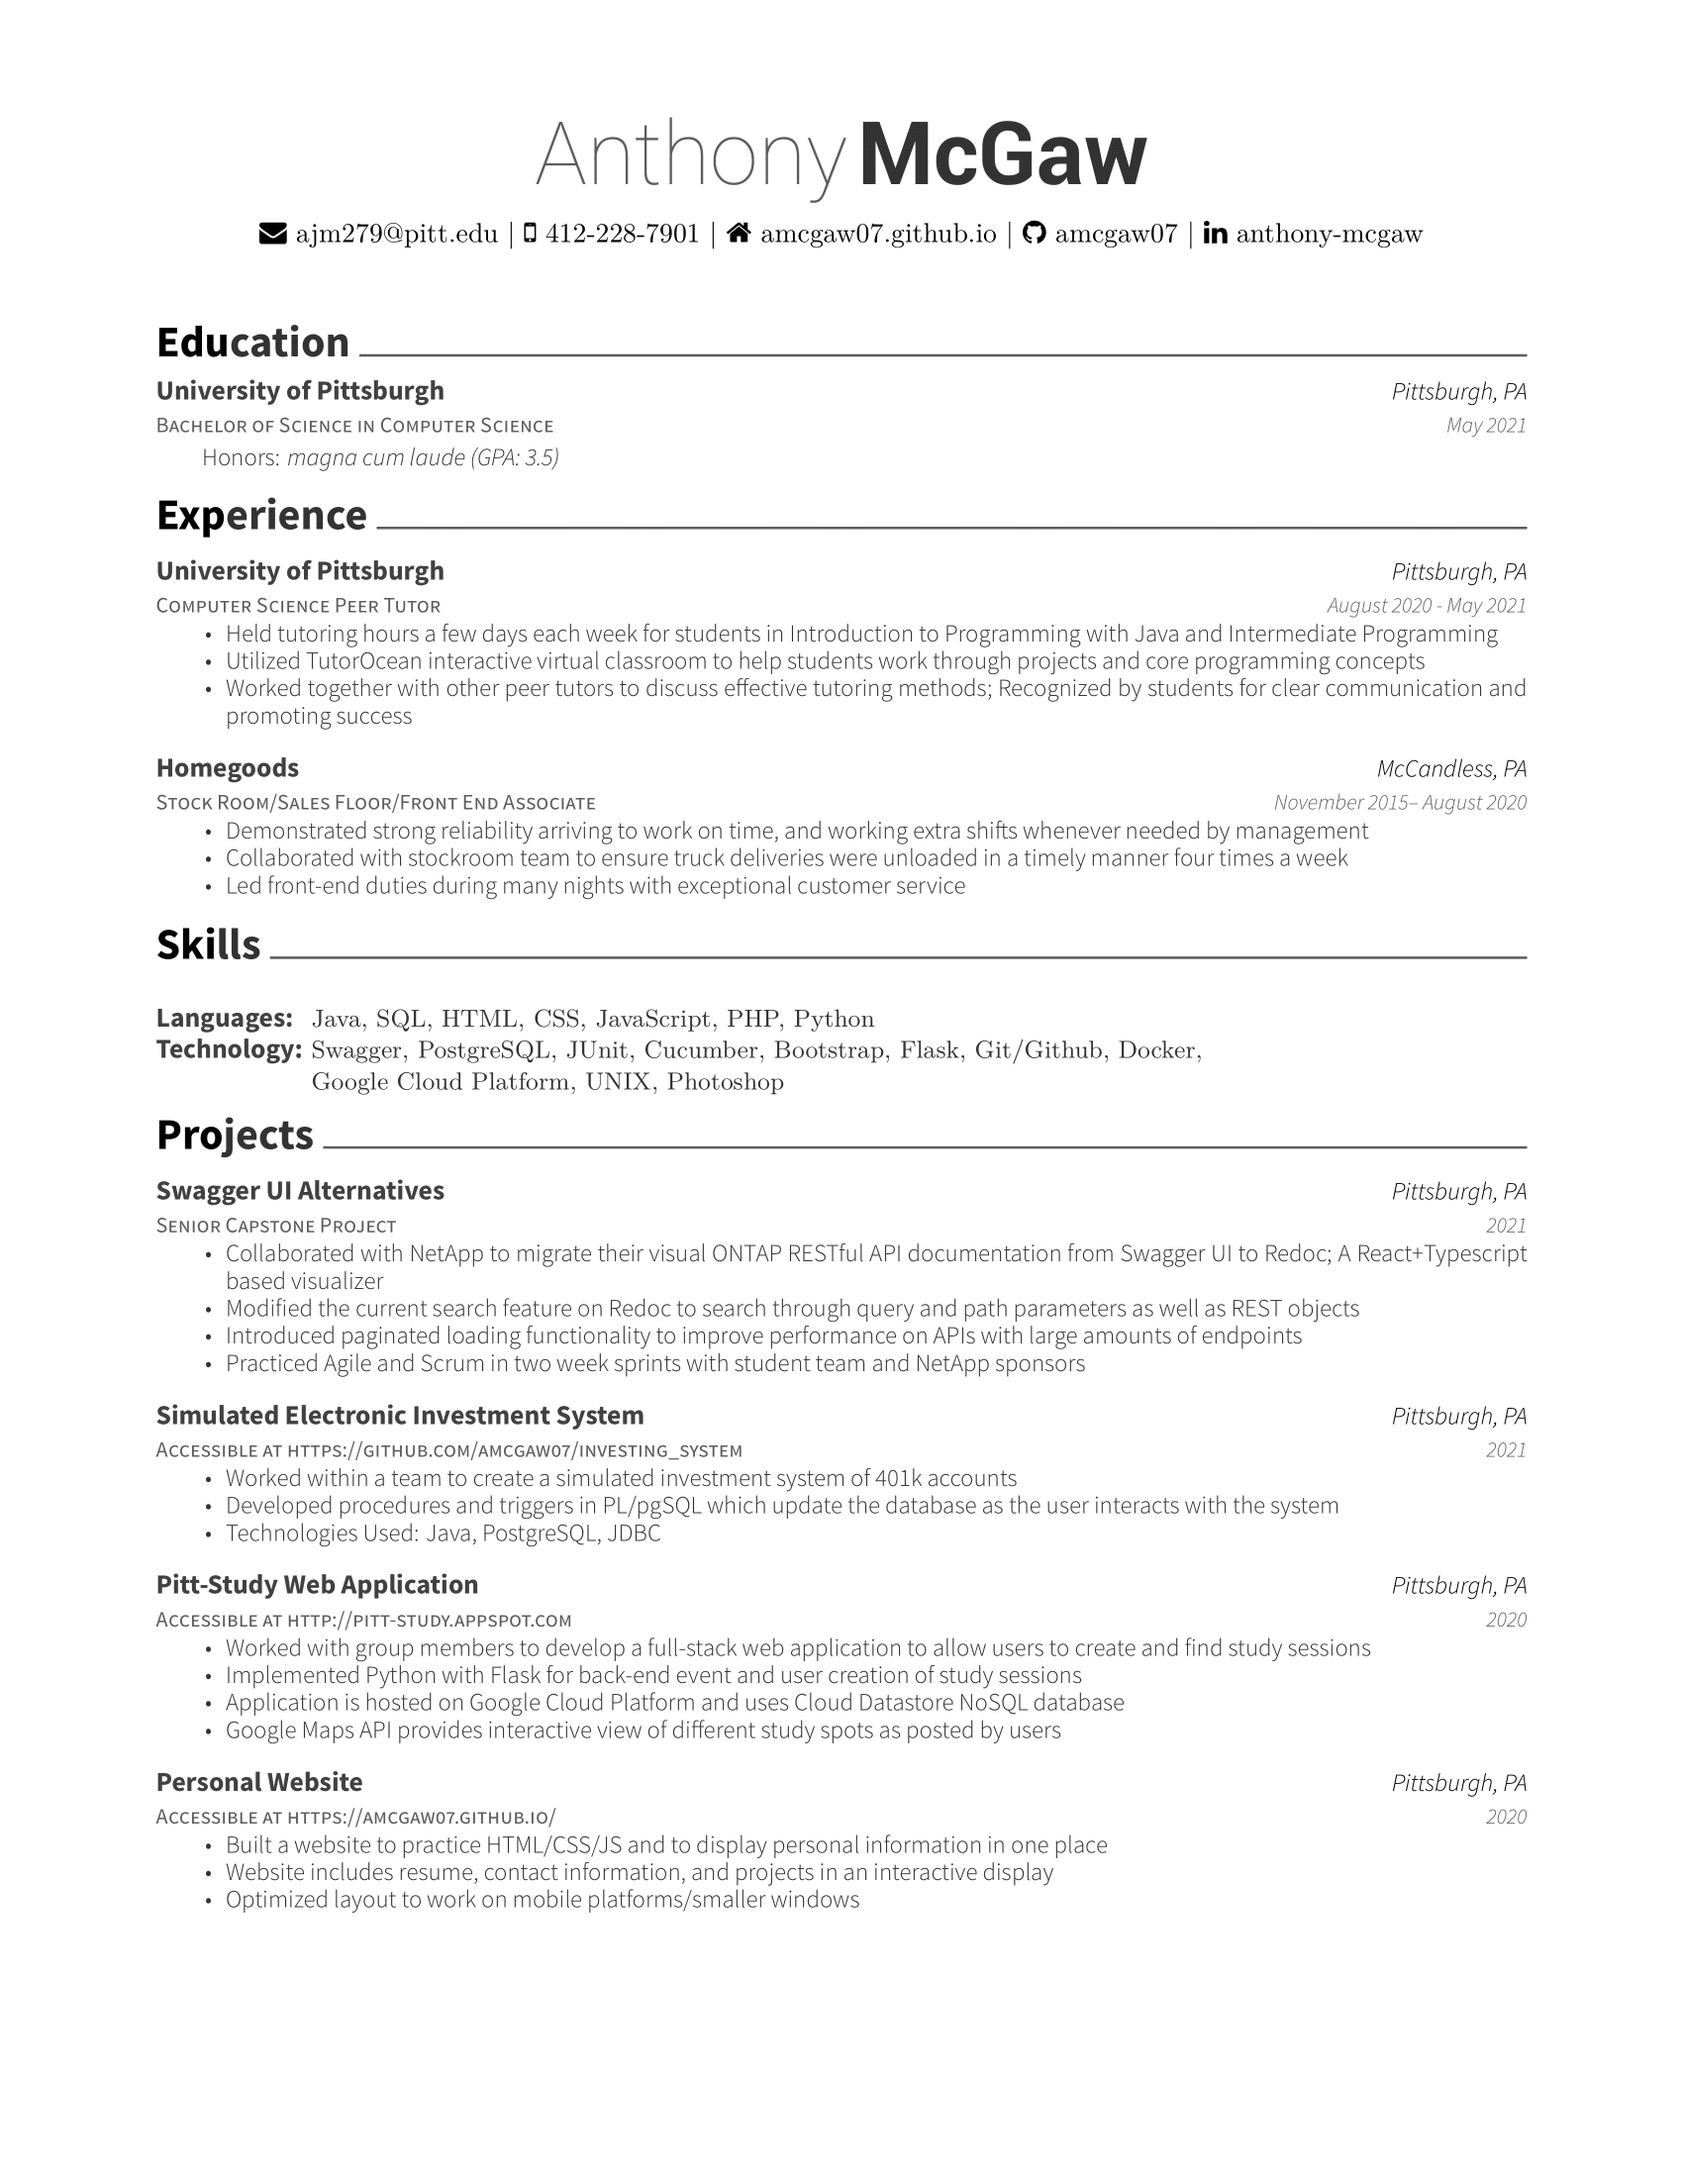
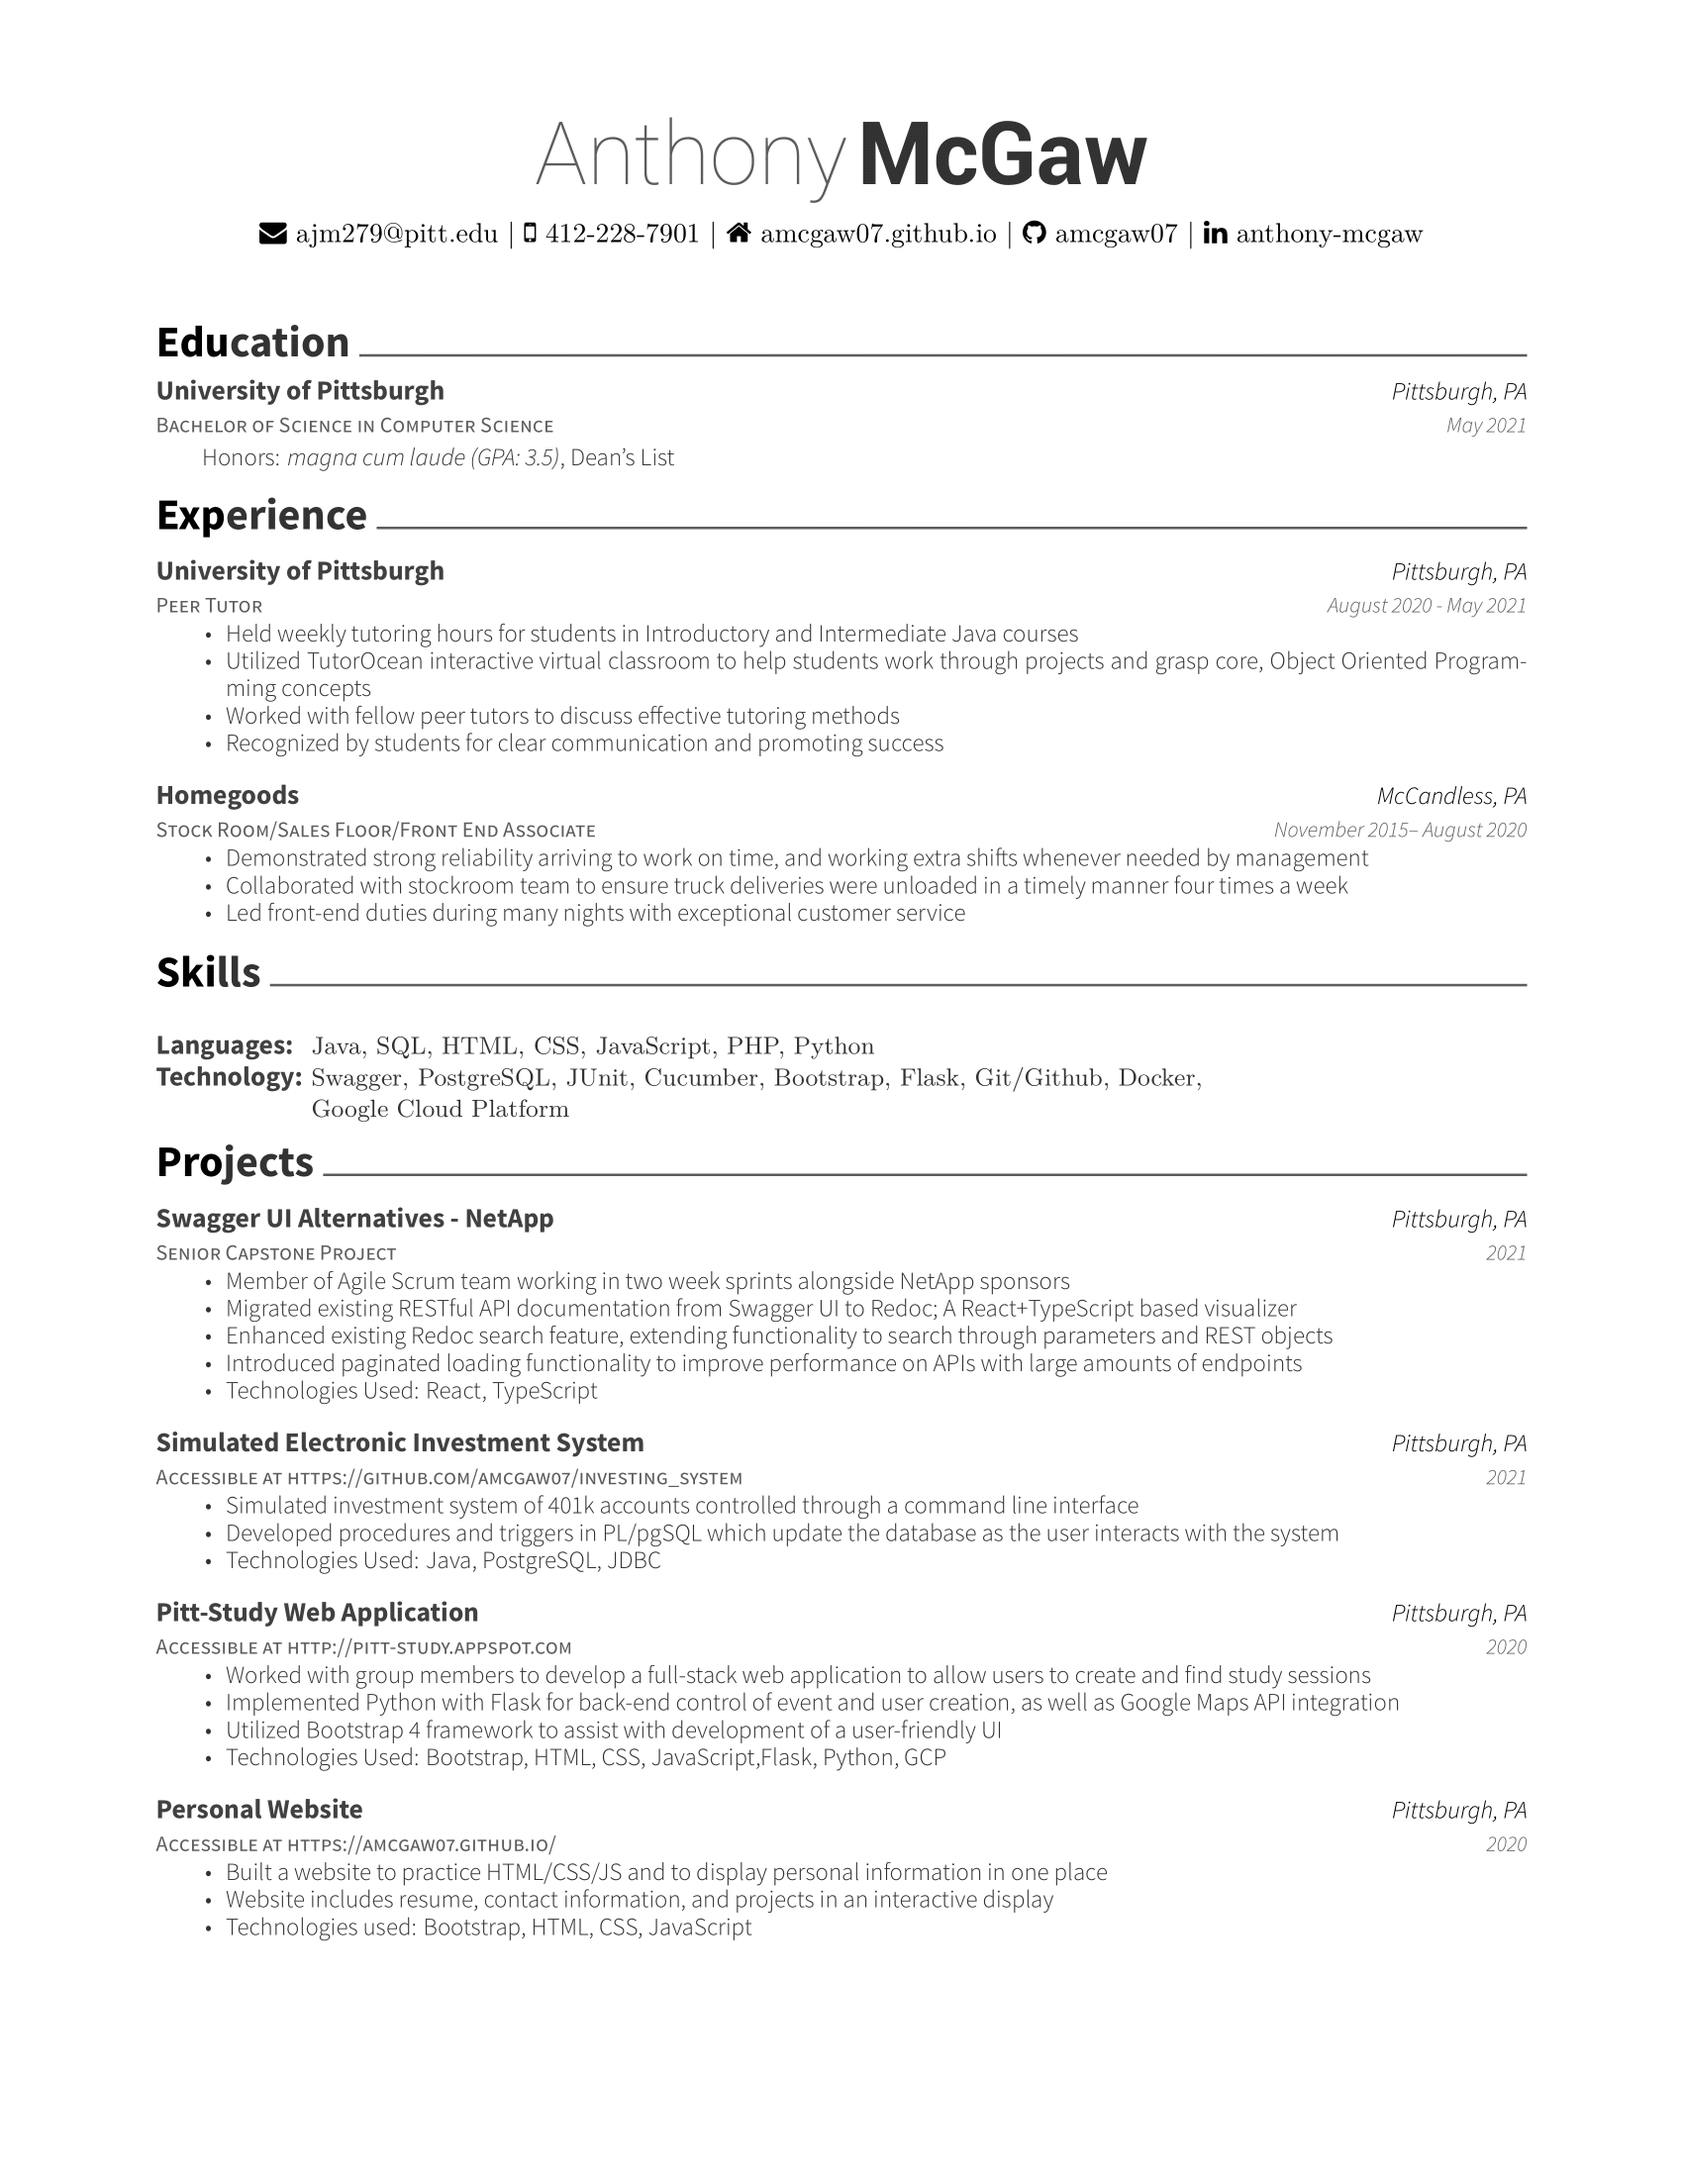
refactor

diff --git a/resume.tex b/resume.tex
@@ -62,7 +62,7 @@
 	{University of Pittsburgh}
 	{Pittsburgh, PA}
 	{May 2021}
-	{Honors: \textit{magna cum laude (GPA: 3.5)}}
+	{Honors: \textit{magna cum laude (GPA: 3.5)}, Dean's List}
 	
 	
 \end{cventries}
@@ -74,14 +74,15 @@
 \cvsection{Experience}
 \begin{cventries}
 	\cventry
-	{Computer Science Peer Tutor}
+	{Peer Tutor}
 	{University of Pittsburgh}
 	{Pittsburgh, PA}
 	{August 2020 - May 2021}
 	{\begin{cvitems}
-		\item {Held tutoring hours a few days each week for students in Introduction to Programming with Java and Intermediate Programming}
-		\item {Utilized TutorOcean interactive virtual classroom to help students work through projects and core programming concepts}
-		\item {Worked together with other peer tutors to discuss effective tutoring methods; Recognized by students for clear communication and promoting success}
+		\item {Held weekly tutoring hours for students in Introductory and Intermediate Java courses }
+		\item {Utilized TutorOcean interactive virtual classroom to help students work through projects and grasp core,  Object Oriented Programming concepts}
+		\item {Worked with fellow peer tutors to discuss effective tutoring methods}
+		\item {Recognized by students for clear communication and promoting success}
 		\end{cvitems}}
 	\cventry
 	{Stock Room/Sales Floor/Front End Associate}
@@ -101,7 +102,7 @@
 	{}
 	{\def\arraystretch{1.15}{\begin{tabular}{ l l }
 		Languages:  & {\skill{ Java, SQL, HTML, CSS, JavaScript, PHP, Python}} \\
-		Technology:  & {\skill{ Swagger, PostgreSQL, JUnit, Cucumber, Bootstrap, Flask, Git/Github, Docker, }} \\ &{\skill{ Google Cloud Platform, UNIX, Photoshop}} \\
+		Technology:  & {\skill{ Swagger, PostgreSQL, JUnit, Cucumber, Bootstrap, Flask, Git/Github, Docker, }} \\ &{\skill{ Google Cloud Platform}} \\
 		%Coursework:  & {\skill{ Intro to Data Science, Intro to Cloud Computing, Software Q/A, OS, Web Applications, }} \\
 		 		    %& {\skill{ Algorithms,  Data Structures,  Discrete Mathematics, Computer Organization}} \\
 		\end{tabular}}}
@@ -114,15 +115,16 @@
 \cvsection{Projects}
 \begin{cventries}
 \cventry
-	{}
-	{Senior Capstone Project}
+	{Senior Capstone Project }
+	{Swagger UI Alternatives - NetApp }
 	{Pittsburgh, PA}
 	{2021}
 	{\begin{cvitems}
-		\item {Collaborated with NetApp to migrate their visual ONTAP RESTful API documentation from Swagger UI to Redoc; A React+Typescript based visualizer}
-		\item {Modified the current search feature on Redoc to search through query and path parameters as well as REST objects}
+	    \item {Member of Agile Scrum team working in two week sprints alongside NetApp sponsors }
+		\item {Migrated existing RESTful API documentation from Swagger UI to Redoc; A React+TypeScript based visualizer}
+		\item {Enhanced existing Redoc search feature, extending functionality to search through parameters and REST objects}
 		\item {Introduced paginated loading functionality to improve performance on APIs with large amounts of endpoints}
-		\item {Practiced Agile and Scrum in two week sprints with student team and NetApp sponsors }
+		\item {Technologies Used: React, TypeScript}
 		\end{cvitems}}
 	\cventry
 	{Accessible at \href{https://github.com/amcgaw07/investing_system} {https://github.com/amcgaw07/investing\_system}}
@@ -130,7 +132,7 @@
 	{Pittsburgh, PA}
 	{2021}
 	{\begin{cvitems}
-		\item {Worked within a team to create a simulated investment system of 401k accounts}
+		\item {Simulated investment system of 401k accounts controlled through a command line interface}
 		\item {Developed procedures and triggers in PL/pgSQL which update the database as the user interacts with the system}
 		\item {Technologies Used: Java, PostgreSQL, JDBC}
 		\end{cvitems}}
@@ -141,9 +143,9 @@
 	{2020}
 	{\begin{cvitems}
 		\item {Worked with group members to develop a full-stack web application to allow users to create and find study sessions}
-		\item {Implemented Python with Flask for back-end event and user creation of study sessions}
-		\item {Application is hosted on Google Cloud Platform and uses Cloud Datastore NoSQL database}
-		\item {Google Maps API provides interactive view of different study spots as posted by users}
+		\item {Implemented Python with Flask for back-end control of event and user creation, as well as Google Maps API integration}
+		\item {Utilized Bootstrap 4 framework to assist with development of a user-friendly UI}
+		\item {Technologies Used: Bootstrap, HTML, CSS, JavaScript,Flask, Python, GCP}
 		\end{cvitems}}
 	%{Accessible at \href{https://github.com/amcgaw07/DSToolbox} {https://github.com/amcgaw07/DSToolbox}}
 	%{Data Science Toolbox}
@@ -162,7 +164,7 @@
 	{\begin{cvitems}
 		\item {Built a website to practice HTML/CSS/JS and to display personal information in one place}
 		\item {Website includes resume, contact information, and projects in an interactive display}
-		\item {Optimized layout to work on mobile platforms/smaller windows}
+		\item {Technologies used: Bootstrap, HTML, CSS, JavaScript}
 		\end{cvitems}}
 
 	%\cventry
